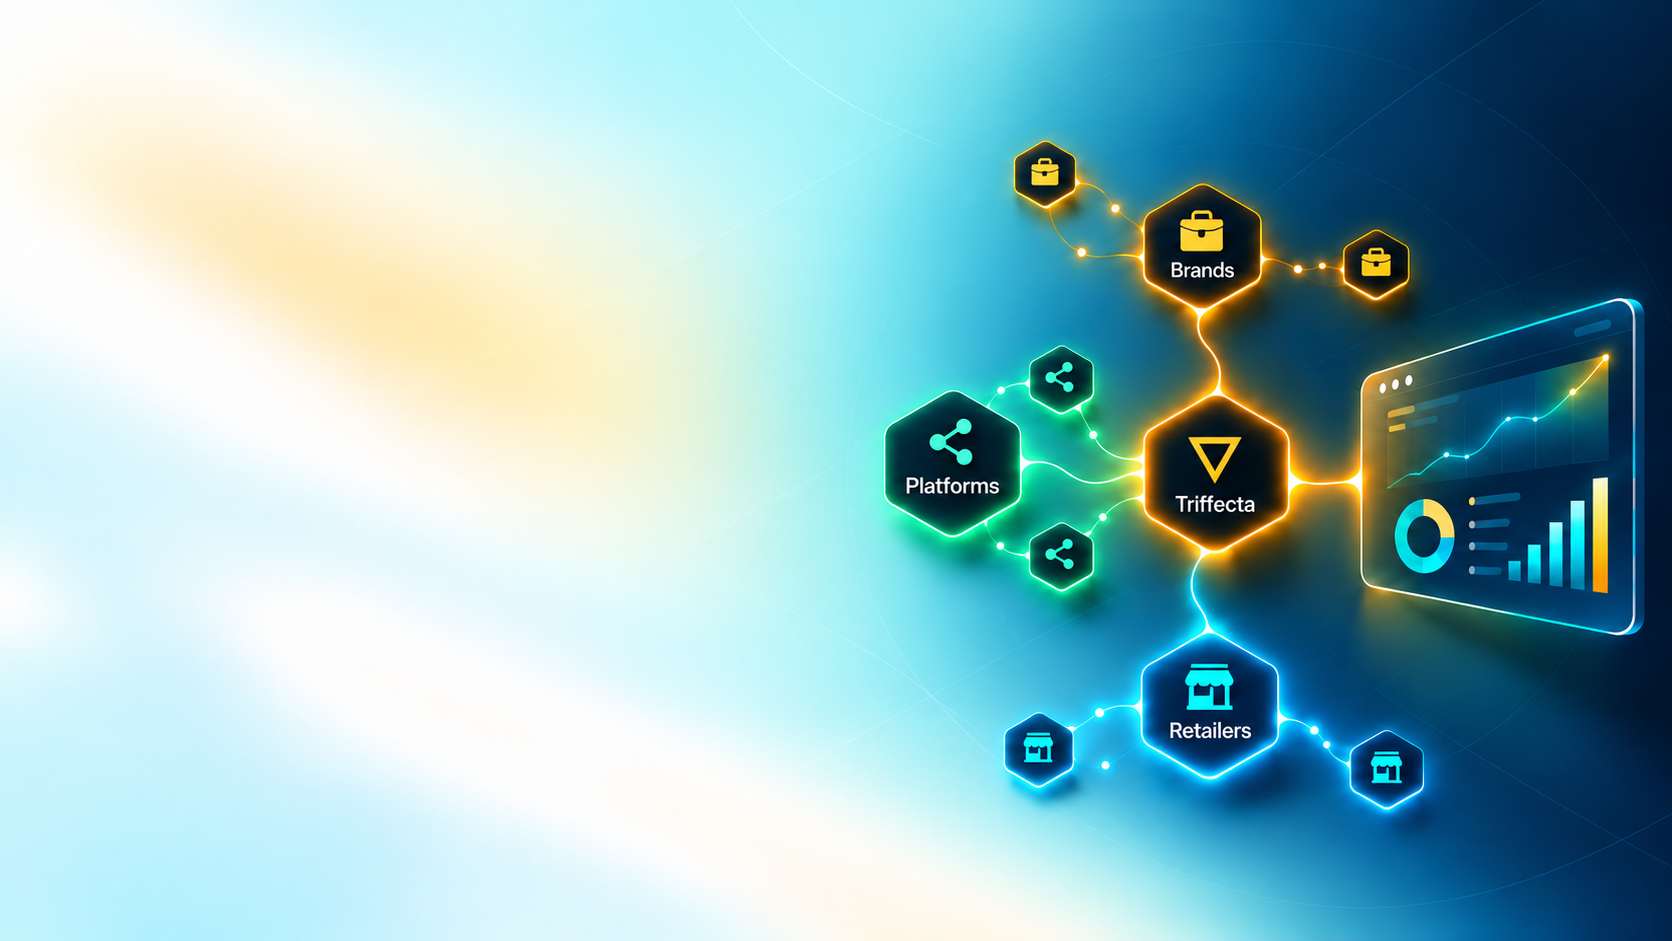
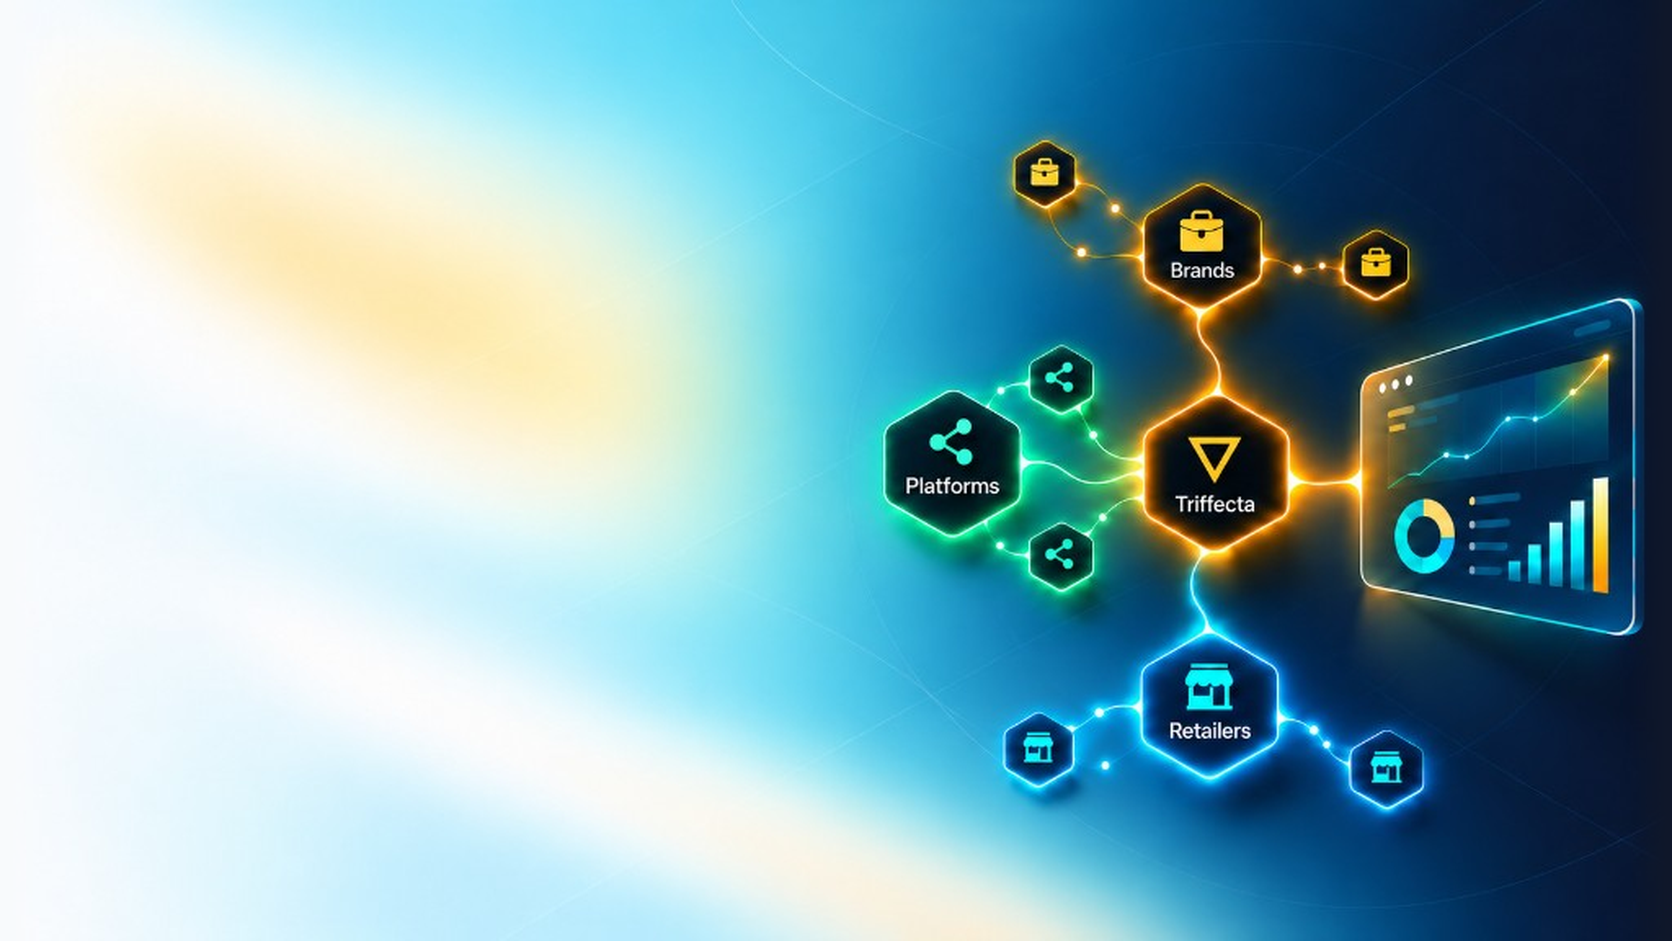
Minor homepage background adjustment

diff --git a/src/styles/global.css b/src/styles/global.css
@@ -177,7 +177,13 @@
   Homepage hero background:
   - <1100px: soft vertical fade (cool blue → bright) behind transparent banner
   - ≥1100px: desktop illustration with left→right soft mask
+  Full-bleed section fill matches ink-900 (Operating Model) on the right so
+  ultra-wide viewports don't show a hard cutoff past the content container.
 */
+.hero-section {
+  background-color: var(--color-surface-page);
+}
+
 .hero-background {
   background-color: var(--color-surface-page);
   background-image:
@@ -203,6 +209,17 @@
 }
 
 @media (min-width: 1100px) {
+  .hero-section {
+    background-color: var(--color-ink-900);
+    background-image: linear-gradient(
+      90deg,
+      var(--color-surface-page) 0%,
+      var(--color-surface-page) 50%,
+      var(--color-ink-900) 50%,
+      var(--color-ink-900) 100%
+    );
+  }
+
   .hero-background {
     background-color: transparent;
     background-image:
